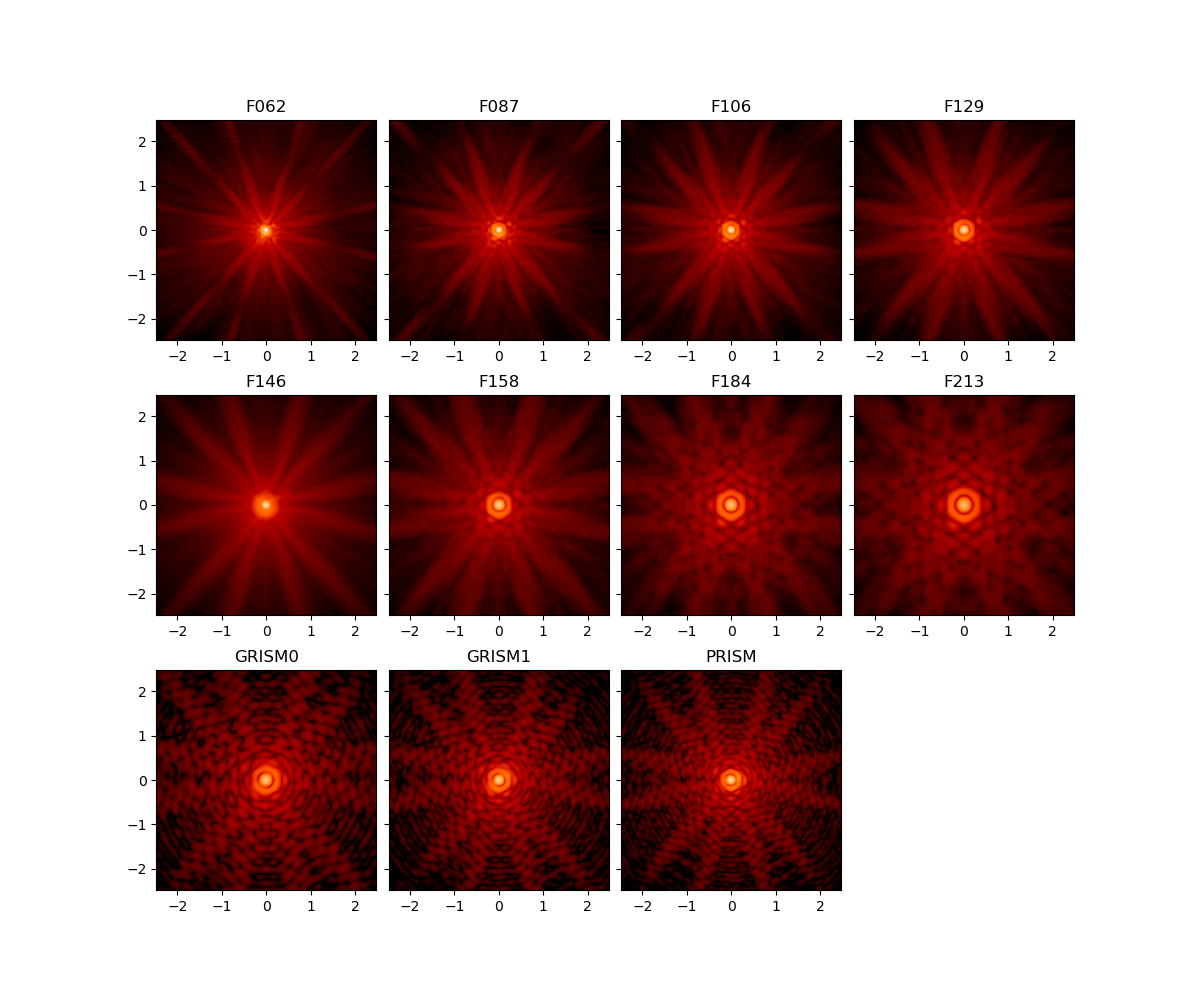
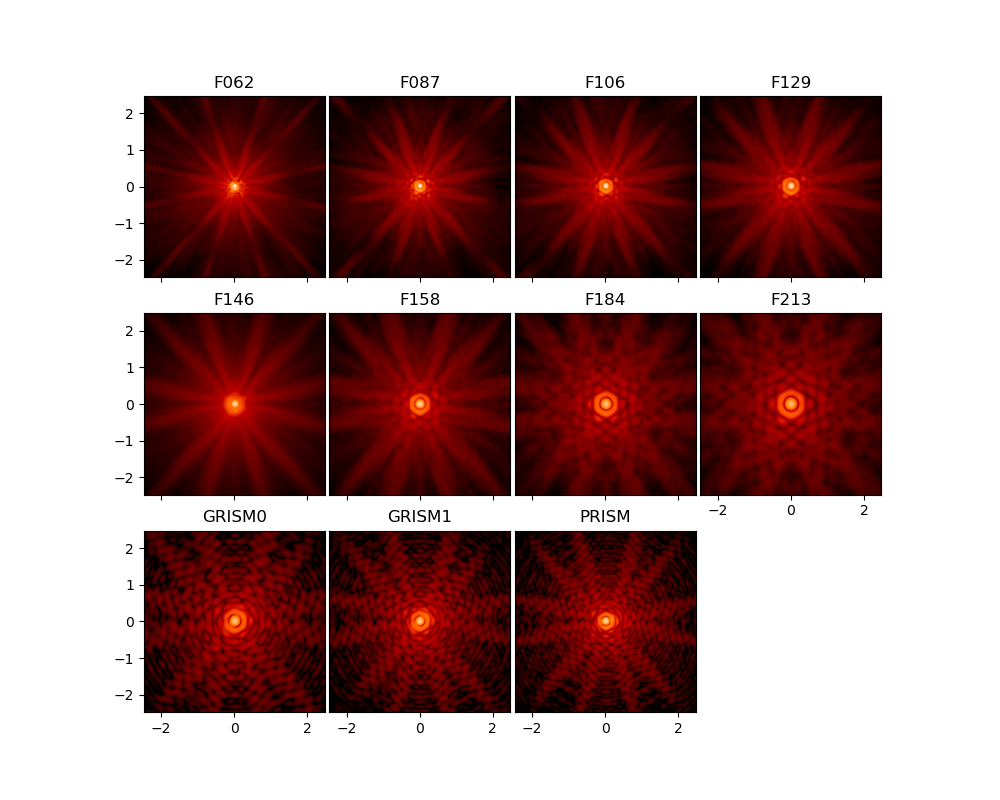
A few more tweaks to figs and rst

diff --git a/docs/roman_figures/how_tos.py b/docs/roman_figures/how_tos.py
@@ -5,9 +5,9 @@ from webbpsf import display_psf, roman
 long = 4
 wide = 3
 
-fig = plt.figure(figsize=(12,10))
-gs = fig.add_gridspec(wide, long, hspace=0.25, wspace=0.0)
-ax = gs.subplots( sharey=True, sharex=False )
+fig = plt.figure(figsize=(10, 8))
+gs = fig.add_gridspec(wide, long, hspace=0.2, wspace=-0.15)
+ax = gs.subplots( sharey=True, sharex=True )
 axes = ax.flatten()
 
 wfi = roman.WFI()
@@ -19,19 +19,23 @@ for i, ifilter in enumerate(sorted(all_filters)):
     
     wfi.filter = ifilter
 
-    nlambda = None
+    nlambda = None # use defaults
     if wfi.filter in ['PRISM', 'GRISM0', 'GRISM1']:
         nlambda = 1
 
     psf = wfi.calc_psf(oversample=4, nlambda=nlambda)
 
     display_psf(psf, ax=ax, colorbar=False, title=ifilter)
-    ax.tick_params(axis='both', labelsize=10)
+
+    if i not in [0, 4, 8]:
+        ax.tick_params(axis='y', length=0)
+    if i == 7:
+        ax.tick_params(axis='x', reset=True, top=False)
+
     ax.xaxis.label.set_visible(False)
     ax.yaxis.label.set_visible(False)
 
 axes[-1].remove()
-
 #fig.savefig('webbpsf-roman_page_header.png', dpi=100, facecolor='w')
 
 #### Create compare_wfi_sca09_sca17.png

diff --git a/docs/index.rst b/docs/index.rst
@@ -15,7 +15,7 @@ WebbPSF is a Python package that computes simulated point spread functions (PSFs
    :align: center
    :alt: Sample PSFs for the filters in the Roman WFI.
 
-   Sample PSFs for the filters in the Roman WFI.
+   Sample PSFs for the filters in the Roman WFI on SCA01. Note that the prism and grism PSFs are monochromatic.
 
 
 **Contributors:**
